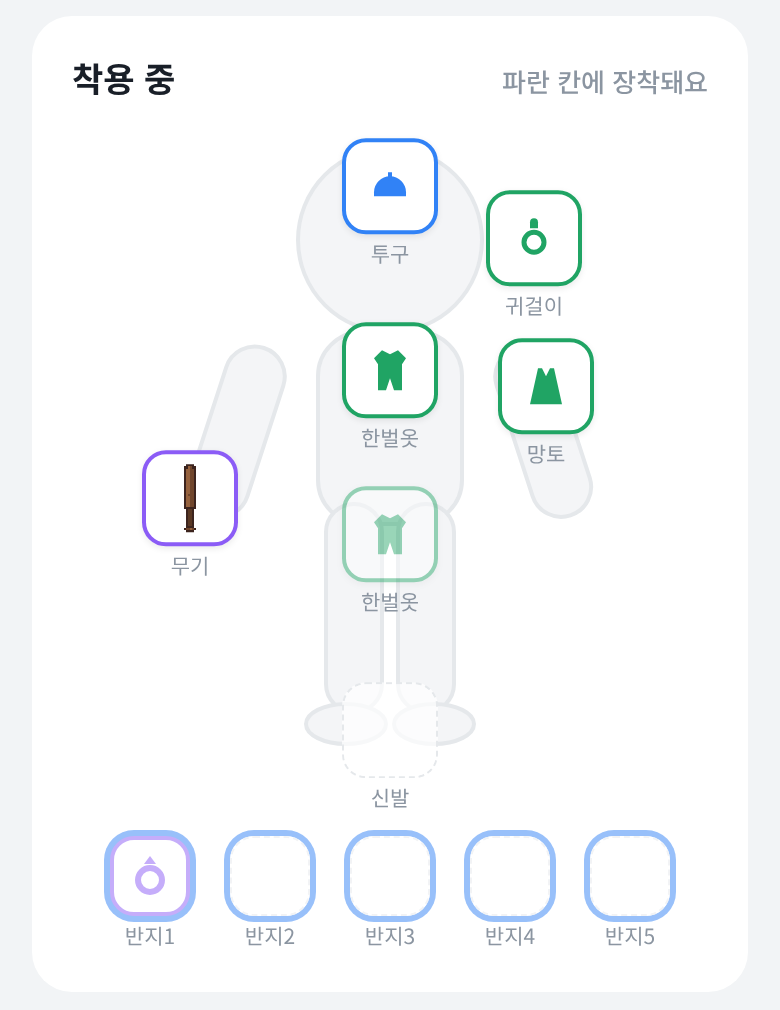
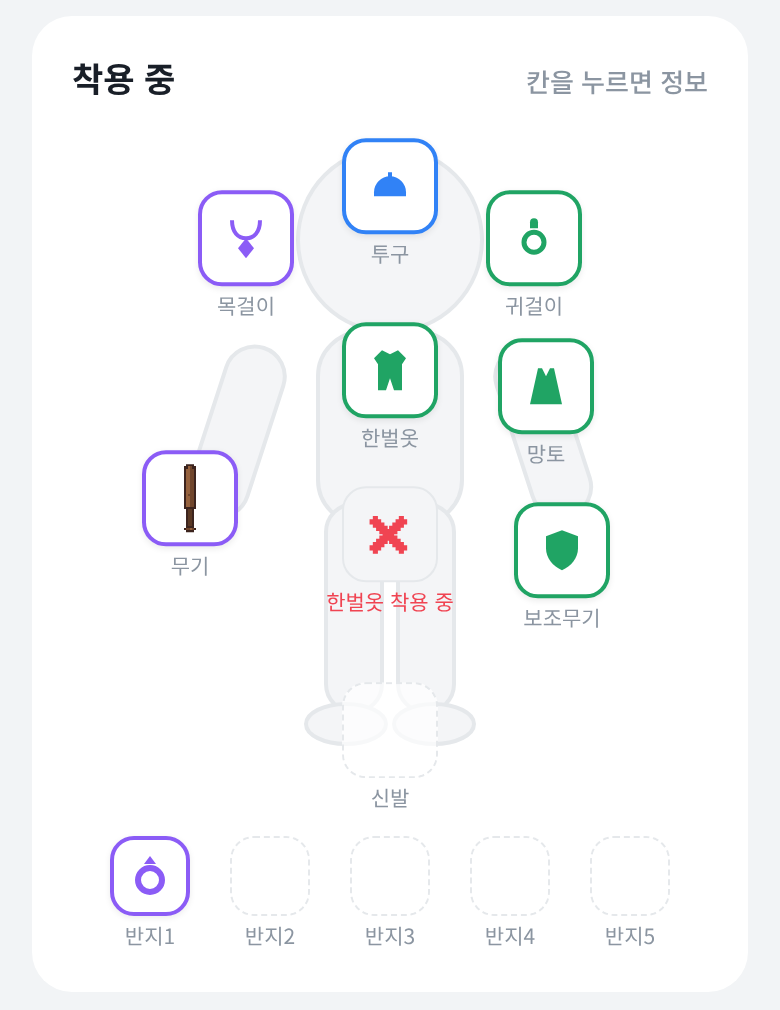
Add necklace and sub-weapon slots; block bottom slot with an X under a suit
Claude-Session: https://claude.ai/code/session_015cmTPUQ4zgwBRLa7nDL7dC

diff --git a/index.html b/index.html
@@ -155,7 +155,8 @@ button:focus-visible,input:focus-visible,select:focus-visible,textarea:focus-vis
 .ps.on .sq{box-shadow:0 0 0 3px var(--accent)}
 .ps.fit .sq{box-shadow:0 0 0 3px var(--accent);animation:blink 1s infinite}
 @media (prefers-reduced-motion:reduce){.ps.fit .sq{animation:none}}
-.ps.suitcover .sq{opacity:.45}
+.ps.blocked .sq{border:1.5px solid var(--line);background:var(--surface-2);box-shadow:none;color:var(--red);font-size:26px;font-weight:700;line-height:1}
+.ps.blocked small{color:var(--red)}
 .ringrow{display:flex;justify-content:center;gap:8px;margin-top:6px}
 .ringrow .ps{position:static;transform:none;width:52px}
 .ringrow .ps .sq{width:40px;height:40px}
@@ -367,9 +368,9 @@ const needExp = lv => isJob() ? Math.round((5 + lv*.6) * mexp(48 + lv*.55)) : Ma
 const maxLv = () => isJob() ? JOB_MAX : NOVICE_MAX;
 
 /* ---------- equipment ---------- */
-const SLOT_ORDER = ['weapon','helm','top','bottom','suit','shoes','cape','earring'];
+const SLOT_ORDER = ['weapon','sub','helm','top','bottom','suit','shoes','cape','necklace','earring'];
 const RING_SLOTS = ['ring0','ring1','ring2','ring3','ring4'];
-const SLOTN = {weapon:'무기',helm:'투구',top:'상의',bottom:'하의',suit:'한벌옷',shoes:'신발',cape:'망토',earring:'귀걸이',ring:'반지'};
+const SLOTN = {weapon:'무기',sub:'보조무기',necklace:'목걸이',helm:'투구',top:'상의',bottom:'하의',suit:'한벌옷',shoes:'신발',cape:'망토',earring:'귀걸이',ring:'반지'};
 const RARITY = ['일반','고급','희귀','영웅','전설'];
 const BANDS = [1,5,10,15,20,25,30,35,40,45];
 const SET_NAMES = ['견습생','사냥꾼','용병','철기사','늪지기','망령','협곡','설원','사막','용비늘'];
@@ -381,6 +382,8 @@ const ITEM_NAMES = {
   suit:['수련생 도복','사냥꾼 가죽옷','용병 전투복','견습 기사 갑주','늪지기 갑옷','망령 갑옷','협곡 갑옷','설원 갑옷','사막 갑옷','용기사 갑주'],
   shoes:['짚신','가죽 신발','징 박힌 장화','철 장화','늪지기 장화','망령 장화','협곡 장화','설원 장화','사막 장화','용비늘 장화'],
   cape:['해진 망토','여행자 망토','늑대 가죽 망토','용병 망토','늪지기 망토','망령 망토','협곡 망토','설원 망토','사막 망토','용날개 망토'],
+  sub:['냄비 뚜껑','나무 방패','가죽 방패','징 박힌 방패','철 방패','늪지기 방패','망령 방패','협곡 방패','설원 방패','용비늘 방패'],
+  necklace:['조개 목걸이','은 목걸이','월장석 목걸이','루비 목걸이','사파이어 목걸이','에메랄드 목걸이','미스릴 목걸이','빙정 목걸이','태양석 목걸이','용의 심장 목걸이'],
   earring:['구리 귀걸이','은 귀걸이','월장석 귀걸이','루비 귀걸이','사파이어 귀걸이','에메랄드 귀걸이','미스릴 귀걸이','빙정 귀걸이','태양석 귀걸이','용의 눈 귀걸이'],
   ring:['구리','은','금','백금','에메랄드','흑요석','미스릴','빙정','태양석','용의'],
 };
@@ -388,10 +391,10 @@ const ATK = [6,12,20,30,42,56,72,90,110,132], DEF = [3,6,10,15,21,28,36,45,55,66
 const SLOT_SPEC = {
   weapon:{def:0, bon:[['main',1]]}, helm:{def:.6, bon:[['vit',.5]]}, top:{def:1, bon:[['vit',.8]]},
   bottom:{def:.8, bon:[['agi',.6]]}, suit:{def:1.8, bon:[['vit',.8],['agi',.6]]}, shoes:{def:.5, bon:[['agi',.5]]},
-  cape:{def:.4, bon:[['luk',.4],['spi',.3]]}, earring:{def:0, bon:[['int',.4],['spi',.4]]}, ring:{def:0, bon:[]},
+  cape:{def:.4, bon:[['luk',.4],['spi',.3]]}, sub:{def:.6, bon:[['vit',.4]]}, necklace:{def:0, bon:[['vit',.3],['luk',.3]]}, earring:{def:0, bon:[['int',.4],['spi',.4]]}, ring:{def:0, bon:[]},
 };
 const ARMOR_SET_SLOTS = ['helm','top','bottom','suit','shoes','cape'];
-const LOOT_SLOTS = ['weapon','helm','top','bottom','suit','shoes','cape','earring','ring','ring'];
+const LOOT_SLOTS = ['weapon','sub','helm','top','bottom','suit','shoes','cape','necklace','earring','ring','ring'];
 const BAG_MAX = 40;
 const POTIONS = {hp:{name:'체력 물약',price:25,color:'#f04452',desc:'HP 50% 회복'},mp:{name:'마나 물약',price:25,color:'#3182f6',desc:'MP 50% 회복'}};
 
@@ -550,6 +553,8 @@ const SLOT_ICONS = {
   suit:'<path d="M8 2l4 2 4-2 4 4-2 3v13h-4l-2-6-2 6H6V9L4 6z"/>',
   shoes:'<path d="M5 11h6l1-6h5v8l3 2v4H4z"/>',
   cape:'<path d="M8 3h8l4 18H4zM10 3l2 4 2-4"/>',
+  sub:'<path d="M12 2l8 3v6c0 5-3.5 9-8 11-4.5-2-8-6-8-11V5z"/>',
+  necklace:'<path d="M5 3c0 6 3 9 7 9s7-3 7-9" fill="none" stroke="currentColor" stroke-width="2"/><path d="M12 12l4 5-4 5-4-5z"/>',
   earring:'<path d="M12 2a2 2 0 0 1 2 2v3h-4V4a2 2 0 0 1 2-2z"/><circle cx="12" cy="14" r="5" fill="none" stroke="currentColor" stroke-width="2.5"/>',
   ring:'<circle cx="12" cy="14" r="6" fill="none" stroke="currentColor" stroke-width="3"/><path d="M9 6l3-4 3 4z"/>',
 };
@@ -968,7 +973,7 @@ function battleView(){
 
 /* ---------- character ---------- */
 /* paper doll: slots placed on a faint body outline (viewer's left = the character's right hand) */
-const PD_POS = {helm:[140,40], earring:[212,66], cape:[218,140], top:[140,132], weapon:[40,196], bottom:[140,214], shoes:[140,312]};
+const PD_POS = {helm:[140,40], necklace:[68,66], earring:[212,66], cape:[218,140], sub:[226,222], top:[140,132], weapon:[40,196], bottom:[140,214], shoes:[140,312]};
 const PD_BODY = `<svg class="body" viewBox="0 0 280 350" aria-hidden="true"><circle cx="140" cy="58" r="46"/><rect x="104" y="104" width="72" height="96" rx="22"/>
   <rect x="62" y="112" width="30" height="88" rx="15" transform="rotate(18 77 112)"/><rect x="188" y="112" width="30" height="88" rx="15" transform="rotate(-18 203 112)"/>
   <rect x="108" y="190" width="28" height="104" rx="14"/><rect x="144" y="190" width="28" height="104" rx="14"/><ellipse cx="118" cy="300" rx="20" ry="10"/><ellipse cx="162" cy="300" rx="20" ry="10"/></svg>`;
@@ -979,12 +984,13 @@ function slotFits(slot, it){
   return it.slot===slot;
 }
 function pdSlot(slot, label, style, fitItem){
-  let it = S.equip[slot], cover = false;
-  if (!it && (slot==='top' || slot==='bottom') && S.equip.suit){ it = S.equip.suit; cover = slot==='bottom'; }
-  const cls = [it?'':'empty', UI.slotSel===slot?'on':'', slotFits(slot, fitItem)?'fit':'', cover?'suitcover':''].join(' ');
-  const name = it ? itemInfo(it).name : label;
-  const act = it ? `data-act="slot" data-s="${it===S.equip.suit&&!S.equip[slot]?'suit':slot}"` : 'disabled';
-  return `<button class="ps ${cls}" style="${style||''}" ${act} aria-label="${label}: ${it?esc(name):'비어 있음'}"><span class="sq ${it?'rb'+it.rar:''}">${it?itemIcon(it):''}</span><small>${it&&it===S.equip.suit?'한벌옷':label}</small></button>`;
+  if (slot==='bottom' && S.equip.suit)  // a suit covers the legs: the bottom slot is blocked
+    return `<button class="ps blocked ${slotFits(slot, fitItem)?'fit':''}" style="${style||''}" disabled aria-label="하의: 한벌옷을 입어 착용 불가"><span class="sq">✕</span><small>한벌옷 착용 중</small></button>`;
+  let it = S.equip[slot], key = slot;
+  if (!it && slot==='top' && S.equip.suit){ it = S.equip.suit; key = 'suit'; }
+  const cls = [it?'':'empty', UI.slotSel===key?'on':'', slotFits(slot, fitItem)?'fit':''].join(' ');
+  const act = it ? `data-act="slot" data-s="${key}"` : 'disabled';
+  return `<button class="ps ${cls}" style="${style||''}" ${act} aria-label="${label}: ${it?esc(itemInfo(it).name):'비어 있음'}"><span class="sq ${it?'rb'+it.rar:''}">${it?itemIcon(it):''}</span><small>${key==='suit'?'한벌옷':label}</small></button>`;
 }
 function equipDoll(fitItem){
   const pos = Object.entries(PD_POS).map(([s,[x,y]])=>pdSlot(s, SLOTN[s], `left:${x}px;top:${y}px`, fitItem)).join('');

diff --git a/CLAUDE.md b/CLAUDE.md
@@ -20,7 +20,7 @@
 - 전투: 메타포식 턴제. 맨 위 턴 순서(속도), 내 행동 ◆2개, 약점·치명타는 ◆를 반(½)으로 바꿔 한 번 더, 빗나감·내성은 ◆2개 소모. 공격·스킬·방어·아이템·정보·도망. 포켓몬 구도(내 캐릭터 뒷모습 왼쪽 아래).
 - 사냥터 10곳(노비스 Lv 구간) + 전직 후 심층 사냥터 10곳(직업 Lv 10마다 개방). 낮은 몬스터는 경험치 −50%/−90%. 지면 골드·경험치 10% 잃고 HP 절반.
 - 퀘스트 없음. 일일 미션 3개(포션·골드 소량). 소속 승급 시험(정예 3연전), 훈련소(골드로 능력치 +1), 여관(골드로 회복), 업적·칭호.
-- 장비 칸: 무기·투구·상의·하의·한벌옷·신발·망토·귀걸이·반지 5칸. 등급대 10개(Lv1~45) × 희귀도 5, 심층 장비(심연의 ~)는 전직 후. 세트 이름만, 효과는 나중에.
+- 장비 칸: 무기·보조무기·투구·상의·하의·한벌옷·신발·망토·목걸이·귀걸이·반지 5칸 (가방·캐릭터에서 몸 윤곽 위에 표시, 한벌옷이면 하의 칸 ✕). 등급대 10개(Lv1~45) × 희귀도 5, 심층 장비(심연의 ~)는 전직 후. 세트 이름만, 효과는 나중에.
 - PixelLab 남은 무료 생성: 0회(2026-10-12 기준). 큰 캔버스는 REST가 502로 끊기니 `tools/mcp_pixflux.py`(MCP 비동기)로 생성. 갤러리 복구는 pixelart_workbench inspect + `tools/unpreview.py`.
 
 ## 몬스터
